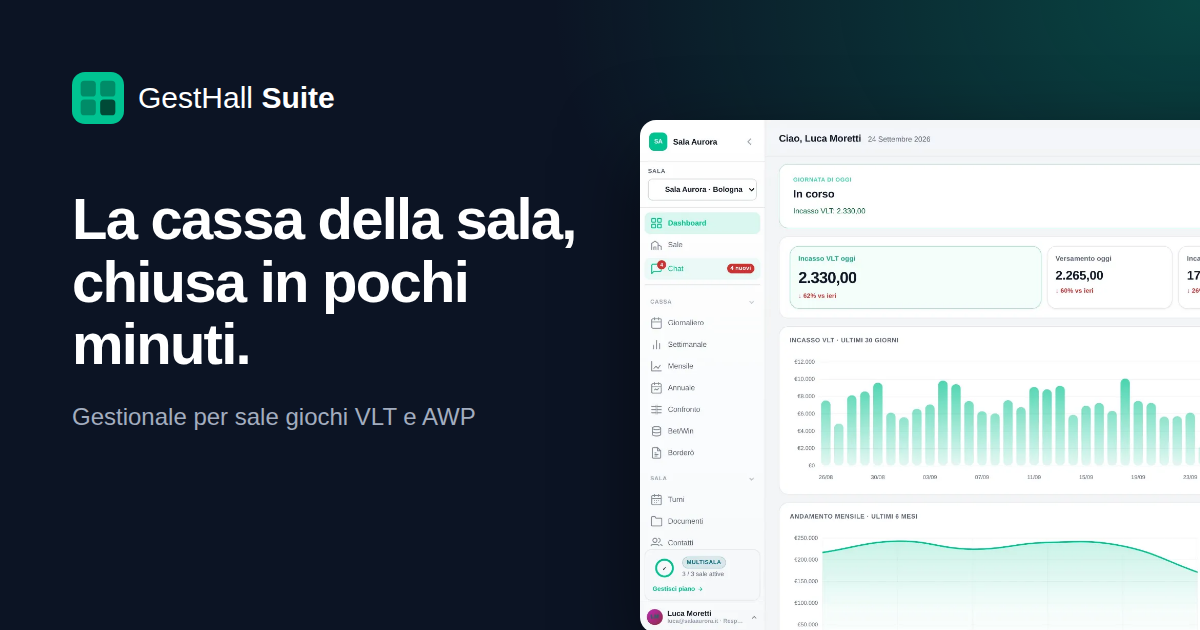
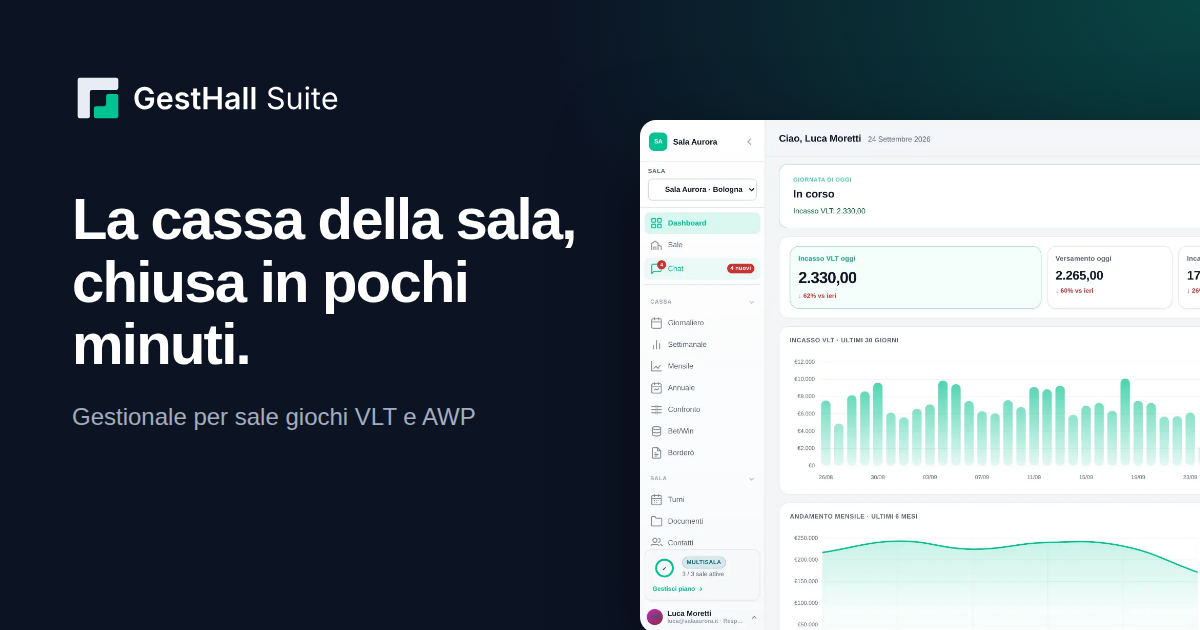
Nuovo marchio «In quadra» e kit del marchio in public/brand
Claude-Session: https://claude.ai/code/session_01ADPLWCBWiakgAwSsRqKMfF

Changed region(s): [[0.0617, 0.0905, 0.2775, 0.2111]]

diff --git a/public/docs/guida/index.html b/public/docs/guida/index.html
@@ -158,13 +158,7 @@ pre code { background:none;border:none;padding:0;font-size:13px;line-height:1.6 
     <svg width="16" height="16" viewBox="0 0 24 24" fill="none" stroke="currentColor" stroke-width="2" stroke-linecap="round"><line x1="3" y1="6" x2="21" y2="6"/><line x1="3" y1="12" x2="21" y2="12"/><line x1="3" y1="18" x2="21" y2="18"/></svg>
   </button>
   <a class="tb-home" href="/">
-    <svg class="tb-mark" viewBox="0 0 34 34">
-      <rect width="34" height="34" rx="8" fill="#00c391"/>
-      <rect x="6" y="6" width="9" height="10" rx="2" fill="rgba(0,0,0,0.32)"/>
-      <rect x="19" y="6" width="9" height="10" rx="2" fill="rgba(0,0,0,0.32)"/>
-      <rect x="6" y="19" width="9" height="10" rx="2" fill="rgba(0,0,0,0.32)"/>
-      <rect x="19" y="19" width="9" height="10" rx="2" fill="rgba(0,0,0,0.72)"/>
-    </svg>
+    <svg class="tb-mark" viewBox="0 0 256 256"><rect width="256" height="256" rx="56" fill="#00c391"/><g transform="translate(43.5 43.5) scale(.66)"><path fill="rgba(0,0,0,.62)" d="M38 28L218 28A10 10 0 0 1 228 38L228 78A10 10 0 0 1 218 88L98 88A10 10 0 0 0 88 98L88 218A10 10 0 0 1 78 228L38 228A10 10 0 0 1 28 218L28 38A10 10 0 0 1 38 28Z"/><path fill="#fff" d="M228 118L228 218A10 10 0 0 1 218 228L118 228A10 10 0 0 1 108 218L108 178A10 10 0 0 1 118 168L158 168A10 10 0 0 0 168 158L168 118A10 10 0 0 1 178 108L218 108A10 10 0 0 1 228 118Z"/></g></svg>
     GestHall Suite
   </a>
   <span class="tb-sep">/</span>

diff --git a/php/interno/pagine/docs.html b/php/interno/pagine/docs.html
@@ -183,13 +183,7 @@ p code, li code, td code, .step-desc code { overflow-wrap:anywhere }
     Interno
   </a>
   <a class="tb-logo" href="/interno/?p=index">
-    <svg class="tb-mark" viewBox="0 0 34 34">
-      <rect width="34" height="34" rx="8" fill="#00c391"/>
-      <rect x="6" y="6" width="9" height="10" rx="2" fill="rgba(0,0,0,0.32)"/>
-      <rect x="19" y="6" width="9" height="10" rx="2" fill="rgba(0,0,0,0.32)"/>
-      <rect x="6" y="19" width="9" height="10" rx="2" fill="rgba(0,0,0,0.32)"/>
-      <rect x="19" y="19" width="9" height="10" rx="2" fill="rgba(0,0,0,0.72)"/>
-    </svg>
+    <svg class="tb-mark" viewBox="0 0 256 256"><rect width="256" height="256" rx="56" fill="#00c391"/><g transform="translate(43.5 43.5) scale(.66)"><path fill="rgba(0,0,0,.62)" d="M38 28L218 28A10 10 0 0 1 228 38L228 78A10 10 0 0 1 218 88L98 88A10 10 0 0 0 88 98L88 218A10 10 0 0 1 78 228L38 228A10 10 0 0 1 28 218L28 38A10 10 0 0 1 38 28Z"/><path fill="#fff" d="M228 118L228 218A10 10 0 0 1 218 228L118 228A10 10 0 0 1 108 218L108 178A10 10 0 0 1 118 168L158 168A10 10 0 0 0 168 158L168 118A10 10 0 0 1 178 108L218 108A10 10 0 0 1 228 118Z"/></g></svg>
     GestHall Suite
   </a>
   <div class="tb-spacer"></div>

diff --git a/php/interno/pagine/manutenzione.html b/php/interno/pagine/manutenzione.html
@@ -182,13 +182,7 @@ p code, li code, td code, .step-desc code { overflow-wrap:anywhere }
     Interno
   </a>
   <a class="tb-logo" href="/interno/?p=index">
-    <svg class="tb-mark" viewBox="0 0 34 34">
-      <rect width="34" height="34" rx="8" fill="#00c391"/>
-      <rect x="6" y="6" width="9" height="10" rx="2" fill="rgba(0,0,0,0.32)"/>
-      <rect x="19" y="6" width="9" height="10" rx="2" fill="rgba(0,0,0,0.32)"/>
-      <rect x="6" y="19" width="9" height="10" rx="2" fill="rgba(0,0,0,0.32)"/>
-      <rect x="19" y="19" width="9" height="10" rx="2" fill="rgba(0,0,0,0.72)"/>
-    </svg>
+    <svg class="tb-mark" viewBox="0 0 256 256"><rect width="256" height="256" rx="56" fill="#00c391"/><g transform="translate(43.5 43.5) scale(.66)"><path fill="rgba(0,0,0,.62)" d="M38 28L218 28A10 10 0 0 1 228 38L228 78A10 10 0 0 1 218 88L98 88A10 10 0 0 0 88 98L88 218A10 10 0 0 1 78 228L38 228A10 10 0 0 1 28 218L28 38A10 10 0 0 1 38 28Z"/><path fill="#fff" d="M228 118L228 218A10 10 0 0 1 218 228L118 228A10 10 0 0 1 108 218L108 178A10 10 0 0 1 118 168L158 168A10 10 0 0 0 168 158L168 118A10 10 0 0 1 178 108L218 108A10 10 0 0 1 228 118Z"/></g></svg>
     GestHall Suite
   </a>
   <div class="tb-spacer"></div>

diff --git a/php/interno/pagine/vendita.html b/php/interno/pagine/vendita.html
@@ -183,13 +183,7 @@ p code, li code, td code, .step-desc code { overflow-wrap:anywhere }
     Interno
   </a>
   <a class="tb-logo" href="/interno/?p=index">
-    <svg class="tb-mark" viewBox="0 0 34 34">
-      <rect width="34" height="34" rx="8" fill="#00c391"/>
-      <rect x="6" y="6" width="9" height="10" rx="2" fill="rgba(0,0,0,0.32)"/>
-      <rect x="19" y="6" width="9" height="10" rx="2" fill="rgba(0,0,0,0.32)"/>
-      <rect x="6" y="19" width="9" height="10" rx="2" fill="rgba(0,0,0,0.32)"/>
-      <rect x="19" y="19" width="9" height="10" rx="2" fill="rgba(0,0,0,0.72)"/>
-    </svg>
+    <svg class="tb-mark" viewBox="0 0 256 256"><rect width="256" height="256" rx="56" fill="#00c391"/><g transform="translate(43.5 43.5) scale(.66)"><path fill="rgba(0,0,0,.62)" d="M38 28L218 28A10 10 0 0 1 228 38L228 78A10 10 0 0 1 218 88L98 88A10 10 0 0 0 88 98L88 218A10 10 0 0 1 78 228L38 228A10 10 0 0 1 28 218L28 38A10 10 0 0 1 38 28Z"/><path fill="#fff" d="M228 118L228 218A10 10 0 0 1 218 228L118 228A10 10 0 0 1 108 218L108 178A10 10 0 0 1 118 168L158 168A10 10 0 0 0 168 158L168 118A10 10 0 0 1 178 108L218 108A10 10 0 0 1 228 118Z"/></g></svg>
     GestHall Suite
   </a>
   <div class="tb-spacer"></div>

diff --git a/php/interno/pagine/business-plan.html b/php/interno/pagine/business-plan.html
@@ -144,13 +144,7 @@ ul.plain li::marker { color: var(--teal) }
     Interno
   </a>
   <a class="tb-logo" href="/interno/?p=index">
-    <svg class="tb-mark" viewBox="0 0 34 34">
-      <rect width="34" height="34" rx="8" fill="#00c391"/>
-      <rect x="6" y="6" width="9" height="10" rx="2" fill="rgba(0,0,0,0.32)"/>
-      <rect x="19" y="6" width="9" height="10" rx="2" fill="rgba(0,0,0,0.32)"/>
-      <rect x="6" y="19" width="9" height="10" rx="2" fill="rgba(0,0,0,0.32)"/>
-      <rect x="19" y="19" width="9" height="10" rx="2" fill="rgba(0,0,0,0.72)"/>
-    </svg>
+    <svg class="tb-mark" viewBox="0 0 256 256"><rect width="256" height="256" rx="56" fill="#00c391"/><g transform="translate(43.5 43.5) scale(.66)"><path fill="rgba(0,0,0,.62)" d="M38 28L218 28A10 10 0 0 1 228 38L228 78A10 10 0 0 1 218 88L98 88A10 10 0 0 0 88 98L88 218A10 10 0 0 1 78 228L38 228A10 10 0 0 1 28 218L28 38A10 10 0 0 1 38 28Z"/><path fill="#fff" d="M228 118L228 218A10 10 0 0 1 218 228L118 228A10 10 0 0 1 108 218L108 178A10 10 0 0 1 118 168L158 168A10 10 0 0 0 168 158L168 118A10 10 0 0 1 178 108L218 108A10 10 0 0 1 228 118Z"/></g></svg>
     GestHall Suite
   </a>
   <span class="tb-sep">/</span>

diff --git a/php/interno/pagine/spazio.html b/php/interno/pagine/spazio.html
@@ -144,13 +144,7 @@ ul.plain li::marker { color: var(--teal) }
     Interno
   </a>
   <a class="tb-logo" href="/interno/?p=index">
-    <svg class="tb-mark" viewBox="0 0 34 34">
-      <rect width="34" height="34" rx="8" fill="#00c391"/>
-      <rect x="6" y="6" width="9" height="10" rx="2" fill="rgba(0,0,0,0.32)"/>
-      <rect x="19" y="6" width="9" height="10" rx="2" fill="rgba(0,0,0,0.32)"/>
-      <rect x="6" y="19" width="9" height="10" rx="2" fill="rgba(0,0,0,0.32)"/>
-      <rect x="19" y="19" width="9" height="10" rx="2" fill="rgba(0,0,0,0.72)"/>
-    </svg>
+    <svg class="tb-mark" viewBox="0 0 256 256"><rect width="256" height="256" rx="56" fill="#00c391"/><g transform="translate(43.5 43.5) scale(.66)"><path fill="rgba(0,0,0,.62)" d="M38 28L218 28A10 10 0 0 1 228 38L228 78A10 10 0 0 1 218 88L98 88A10 10 0 0 0 88 98L88 218A10 10 0 0 1 78 228L38 228A10 10 0 0 1 28 218L28 38A10 10 0 0 1 38 28Z"/><path fill="#fff" d="M228 118L228 218A10 10 0 0 1 218 228L118 228A10 10 0 0 1 108 218L108 178A10 10 0 0 1 118 168L158 168A10 10 0 0 0 168 158L168 118A10 10 0 0 1 178 108L218 108A10 10 0 0 1 228 118Z"/></g></svg>
     GestHall Suite
   </a>
   <span class="tb-sep">/</span>

diff --git a/php/interno/pagine/indice.html b/php/interno/pagine/indice.html
@@ -112,13 +112,7 @@ a { text-decoration:none }
 
 <div class="topbar">
   <a class="tb-logo" href="/">
-    <svg class="tb-mark" viewBox="0 0 34 34">
-      <rect width="34" height="34" rx="8" fill="#00c391"/>
-      <rect x="6" y="6" width="9" height="10" rx="2" fill="rgba(0,0,0,0.32)"/>
-      <rect x="19" y="6" width="9" height="10" rx="2" fill="rgba(0,0,0,0.32)"/>
-      <rect x="6" y="19" width="9" height="10" rx="2" fill="rgba(0,0,0,0.32)"/>
-      <rect x="19" y="19" width="9" height="10" rx="2" fill="rgba(0,0,0,0.72)"/>
-    </svg>
+    <svg class="tb-mark" viewBox="0 0 256 256"><rect width="256" height="256" rx="56" fill="#00c391"/><g transform="translate(43.5 43.5) scale(.66)"><path fill="rgba(0,0,0,.62)" d="M38 28L218 28A10 10 0 0 1 228 38L228 78A10 10 0 0 1 218 88L98 88A10 10 0 0 0 88 98L88 218A10 10 0 0 1 78 228L38 228A10 10 0 0 1 28 218L28 38A10 10 0 0 1 38 28Z"/><path fill="#fff" d="M228 118L228 218A10 10 0 0 1 218 228L118 228A10 10 0 0 1 108 218L108 178A10 10 0 0 1 118 168L158 168A10 10 0 0 0 168 158L168 118A10 10 0 0 1 178 108L218 108A10 10 0 0 1 228 118Z"/></g></svg>
     GestHall Suite
   </a>
   <span class="tb-sep">/</span>

diff --git a/public/cliente/index.php b/public/cliente/index.php
@@ -433,13 +433,7 @@ $saleAttuali = max(1, (int)($inst['sale_max'] ?? 1));
 <div class="wrap">
 
   <header class="cl-header">
-    <svg class="cl-logo" viewBox="0 0 42 42" aria-hidden="true">
-      <rect width="42" height="42" rx="10" fill="#00c391"/>
-      <rect x="7" y="7" width="11" height="12" rx="2.5" fill="rgba(0,0,0,0.28)"/>
-      <rect x="24" y="7" width="11" height="12" rx="2.5" fill="rgba(0,0,0,0.28)"/>
-      <rect x="7" y="23" width="11" height="12" rx="2.5" fill="rgba(0,0,0,0.28)"/>
-      <rect x="24" y="23" width="11" height="12" rx="2.5" fill="rgba(0,0,0,0.72)"/>
-    </svg>
+    <svg class="cl-logo" viewBox="0 0 256 256" aria-hidden="true"><rect width="256" height="256" rx="56" fill="#00c391"/><g transform="translate(43.5 43.5) scale(.66)"><path fill="rgba(0,0,0,.62)" d="M38 28L218 28A10 10 0 0 1 228 38L228 78A10 10 0 0 1 218 88L98 88A10 10 0 0 0 88 98L88 218A10 10 0 0 1 78 228L38 228A10 10 0 0 1 28 218L28 38A10 10 0 0 1 38 28Z"/><path fill="#fff" d="M228 118L228 218A10 10 0 0 1 218 228L118 228A10 10 0 0 1 108 218L108 178A10 10 0 0 1 118 168L158 168A10 10 0 0 0 168 158L168 118A10 10 0 0 1 178 108L218 108A10 10 0 0 1 228 118Z"/></g></svg>
     <div class="cl-header-text">
       <strong>GestHall Suite</strong>
       <span>Area clienti</span>

diff --git a/public/brand/LINEE-GUIDA.md b/public/brand/LINEE-GUIDA.md
@@ -1,0 +1,45 @@
+# Marchio GestHall Suite — guida all'uso
+
+## L'idea
+
+**In quadra.** Due pezzi che si incastrano e chiudono un quadrato: la cassa del turno che torna. Il pezzo scuro è la cassa, quello verde il contante che la fa quadrare.
+
+## File
+
+| File | Quando |
+|---|---|
+| `gesthall-logo.svg` | Simbolo e scritta, su fondo chiaro |
+| `gesthall-logo-scuro.svg` | Simbolo e scritta, su fondo scuro |
+| `gesthall-simbolo.svg` | Solo il simbolo, su fondo chiaro |
+| `gesthall-simbolo-scuro.svg` | Solo il simbolo, su fondo scuro |
+| `gesthall-simbolo-nero.svg` / `-bianco.svg` | Un colore (stampa, timbri, incisioni) |
+| `gesthall-icona.svg`, `gesthall-icona-512/192/180.png` | Icona dell'app (fondo teal) |
+| `gesthall-favicon.svg` | Favicon e spazi piccoli (fino a 16 px) |
+| `gesthall-tavola.png` | Tutte le versioni insieme |
+
+## Colori
+
+| Nome | HEX | RGB | Uso |
+|---|---|---|---|
+| Teal GestHall | `#00c391` | 0 · 195 · 145 | Pezzo verde, fondo dell'icona |
+| Inchiostro | `#0b3b33` | 11 · 59 · 51 | Pezzo scuro su fondo chiaro |
+| Inchiostro dell'icona | `#063d32` | 6 · 61 · 50 | Pezzo scuro sull'icona teal |
+| Chiaro | `#e8edf5` | 232 · 237 · 245 | Pezzo chiaro su fondo scuro |
+| Testo | `#0f1720` | 15 · 23 · 32 | Scritta su fondo chiaro |
+
+Il teal sul bianco ha un contrasto basso: va bene per il simbolo, non per testi piccoli.
+
+## Scritta
+
+«GestHall» in Inter SemiBold e «Suite» in Inter Regular, convertite in tracciati (Inter, SIL Open Font License). Nel sito e nelle app la scritta può restare testo dal vivo con gli stessi pesi.
+
+## Regole
+
+- **Spazio libero**: intorno al simbolo almeno lo spessore del pezzo scuro (circa un quarto del simbolo).
+- **Dimensione minima**: simbolo 16 px sullo schermo, 6 mm in stampa; logo con la scritta 96 px di larghezza.
+- **Fondi**: bianco, grigi chiari, teal (solo con l'icona), scuro (versione scura). Su foto, usare l'icona.
+- **Non fare**: cambiare i colori dei due pezzi, separarli o ruotarli, aggiungere ombre o sfumature, deformare il simbolo, mettere il teal su teal.
+
+## Note
+
+Il marchio non ha una verifica di registrazione: prima di depositarlo serve una ricerca professionale.

diff --git a/CHANGELOG.md b/CHANGELOG.md
@@ -4,6 +4,8 @@ Modifiche al sito gesthallsuite.it (le novità del prodotto sono in `src/data/ch
 
 ## 2026-11-10
 
+- Nuovo marchio «In quadra»: logo, favicon, icona per iOS (`apple-touch-icon`), immagine di condivisione `og.png`, pagine interne e guida; kit del marchio con guida all'uso in `public/brand/`.
+
 - Changelog: voce 3.99.2 (cassaforte delle giornate chiuse insieme).
 - Changelog: voce 3.99.1 (il «cosa fare» nella testata).
 - Changelog: voce 3.99.0 (una sola regola per cassetto e cassaforte).
